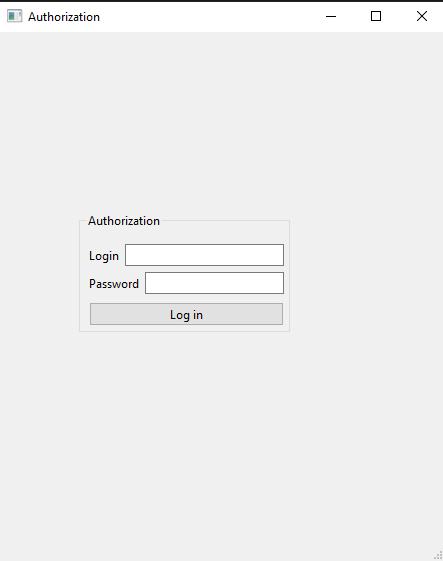
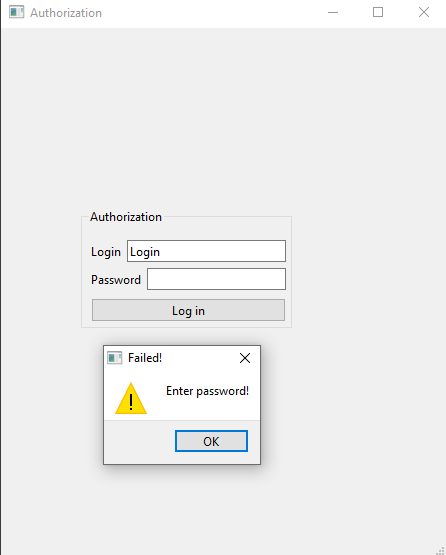
rewrite project

diff --git a/Source Files/mainwindow.cpp b/Source Files/mainwindow.cpp
@@ -7,7 +7,7 @@ MainWindow::MainWindow(QWidget *parent)
 {
     ui->setupUi(this);
     dataBase = QSqlDatabase::addDatabase("QSQLITE");
-    dataBase.setDatabaseName("path_to_your_database/your_database_name.db");
+    dataBase.setDatabaseName("path_to_your_database/name_of_your_database.db");
     if(dataBase.open()){
         qDebug() << "Open!";
     }else{
@@ -28,11 +28,11 @@ void MainWindow::on_pushButton_clicked()
     QString login = ui->login->text();
     QString password = ui->password->text();
     if(login == ""){
-        QMessageBox::information(this, "Failed!", "Enter login!");
+        QMessageBox::warning(this, "Failed!", "Enter login!");
         return;
     }
     if(password == ""){
-        QMessageBox::information(this, "Failed!", "Enter password!");
+        QMessageBox::warning(this, "Failed!", "Enter password!");
         return;
     }
     query->prepare("SELECT EXISTS(SELECT 1 FROM User WHERE Login = :login);");
@@ -41,17 +41,14 @@ void MainWindow::on_pushButton_clicked()
     query->next();
     bool exists = query->value(0).toBool();
     if(exists){
-        hide();
-        failed = new AuthorizationFailed(this);
-        failed->show();
+        QMessageBox::critical(this, "Failed!", "User already exist!");
     }else{
         query->prepare("INSERT INTO User (Login, Password) VALUES (:login, :password);");
         query->bindValue(":login", login);
         query->bindValue(":password", password);
         query->exec();
         hide();
-        success = new AuthorizationComplete(this);
-        success->show();
+        QMessageBox::information(this, "Success!", "Authorization succesful complete!");
     }
 }
 

diff --git a/Header Files/mainwindow.h b/Header Files/mainwindow.h
@@ -6,8 +6,6 @@
 #include <QDebug>
 #include <QSqlQuery>
 #include <QMessageBox>
-#include "authorizationcomplete.h"
-#include "authorizationfailed.h"
 
 QT_BEGIN_NAMESPACE
 namespace Ui {
@@ -30,7 +28,5 @@ private:
     Ui::MainWindow *ui;
     QSqlDatabase dataBase;
     QSqlQuery *query;
-    AuthorizationComplete *success;
-    AuthorizationFailed *failed;
 };
 #endif // MAINWINDOW_H

diff --git a/README.md b/README.md
@@ -3,6 +3,8 @@
  The user enters a login and password and if it is in the database then a message that he is already authorized otherwise, if it is not, it is entered 
  into the database and a message about successful authorization pops up!
  
+ ![](image.png)
+
  ![](image-1.png)
 
  ![](image-2.png)
@@ -10,5 +12,3 @@
  ![](image-3.png)
 
  ![](image-4.png)
-
- ![](image-5.png)
